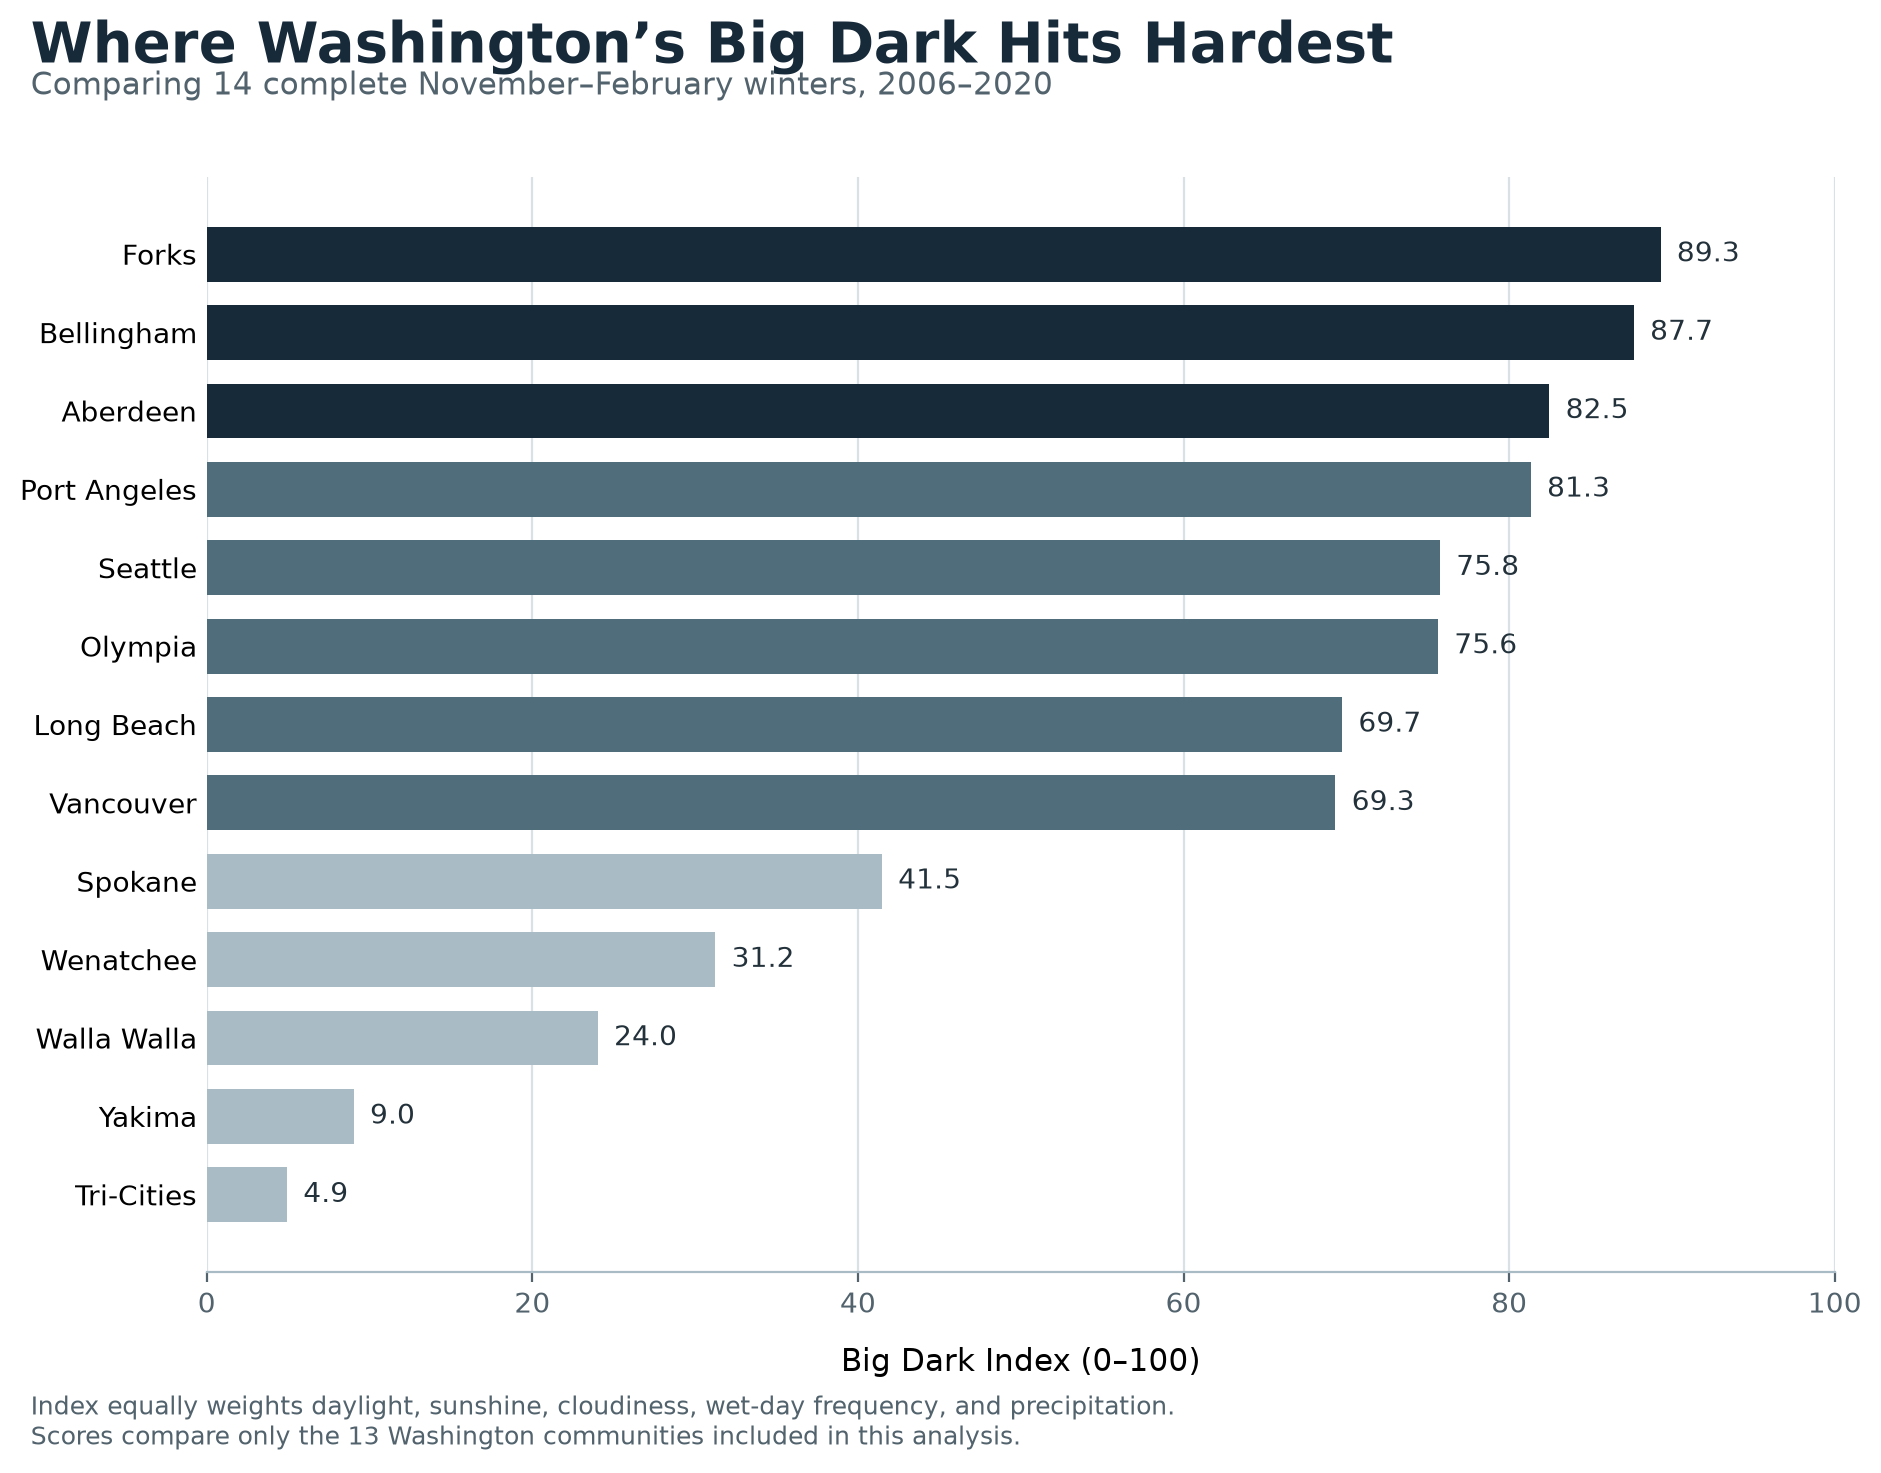
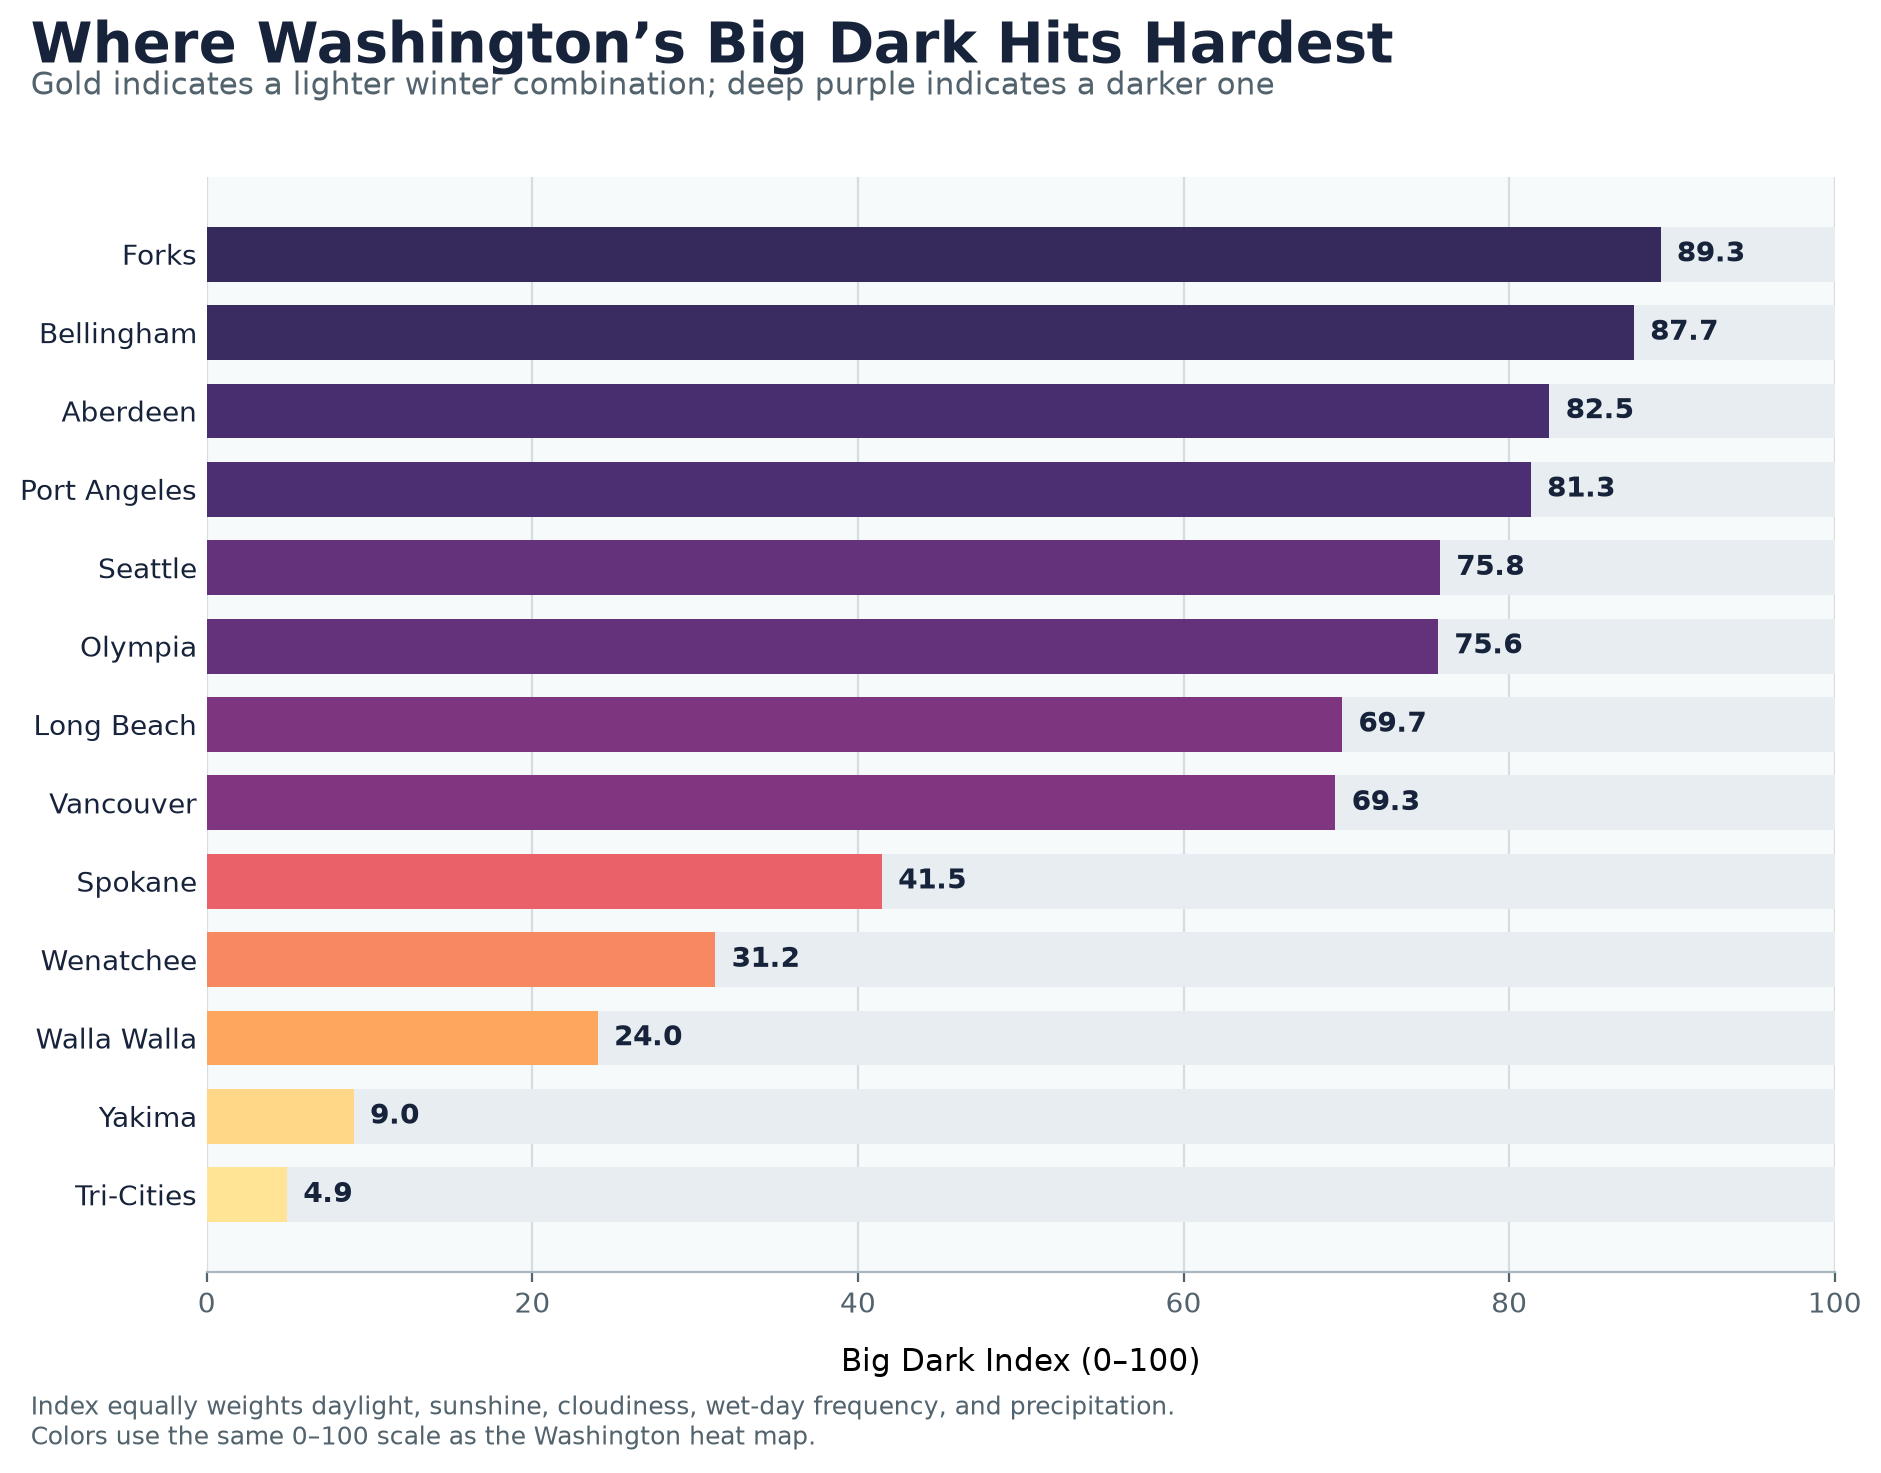
Add coordinated heat map and ranking visuals

diff --git a/scripts/create_map.py b/scripts/create_map.py
@@ -1,0 +1,250 @@
+"""Create an interpolated Washington heat map of Big Dark Index scores."""
+
+import json
+from pathlib import Path
+from urllib.parse import urlencode
+from urllib.request import urlopen
+
+import matplotlib.pyplot as plt
+from matplotlib.colors import LinearSegmentedColormap
+from matplotlib.path import Path as PlotPath
+import numpy as np
+import pandas as pd
+
+
+PROJECT_ROOT = Path(__file__).resolve().parents[1]
+SUMMARY_FILE = PROJECT_ROOT / "data" / "processed" / "big_dark_summary.csv"
+IMAGE_DIRECTORY = PROJECT_ROOT / "images"
+OUTPUT_FILE = IMAGE_DIRECTORY / "big_dark_map.png"
+
+CENSUS_QUERY_URL = (
+    "https://tigerweb.geo.census.gov/arcgis/rest/services/"
+    "Generalized_ACS2024/State_County/MapServer/8/query"
+)
+
+LABEL_OFFSETS = {
+    "Forks": (10, 10),
+    "Aberdeen": (10, -14),
+    "Long Beach": (10, -17),
+    "Port Angeles": (10, 16),
+    "Bellingham": (10, 9),
+    "Seattle": (10, 10),
+    "Olympia": (10, -15),
+    "Vancouver": (10, -17),
+    "Spokane": (-10, 9),
+    "Wenatchee": (10, 9),
+    "Yakima": (10, -13),
+    "Tri-Cities": (-10, -17),
+    "Walla Walla": (10, 15),
+}
+
+
+def download_washington_boundary():
+    """Return Washington's generalized Census boundary as GeoJSON."""
+    parameters = {
+        "where": "BASENAME='Washington'",
+        "outFields": "BASENAME",
+        "returnGeometry": "true",
+        "outSR": "4326",
+        "f": "geojson",
+    }
+    request_url = "{}?{}".format(CENSUS_QUERY_URL, urlencode(parameters))
+
+    with urlopen(request_url, timeout=90) as response:
+        boundary = json.loads(response.read().decode("utf-8"))
+
+    if not boundary.get("features"):
+        raise RuntimeError("The Census API did not return Washington's boundary.")
+
+    return boundary["features"][0]["geometry"]
+
+
+def polygon_rings(geometry):
+    """Yield the exterior ring of every polygon in a GeoJSON geometry."""
+    if geometry["type"] == "Polygon":
+        polygons = [geometry["coordinates"]]
+    elif geometry["type"] == "MultiPolygon":
+        polygons = geometry["coordinates"]
+    else:
+        raise ValueError("Expected a Polygon or MultiPolygon geometry.")
+
+    for polygon in polygons:
+        yield polygon[0]
+
+
+def inverse_distance_surface(summary, grid_longitude, grid_latitude):
+    """Interpolate community scores using inverse-distance weighting."""
+    sample_longitude = summary["longitude"].to_numpy()
+    sample_latitude = summary["latitude"].to_numpy()
+    sample_score = summary["big_dark_index"].to_numpy()
+
+    longitude_scale = np.cos(np.deg2rad(summary["latitude"].mean()))
+    delta_longitude = (
+        grid_longitude[..., np.newaxis] - sample_longitude
+    ) * longitude_scale
+    delta_latitude = grid_latitude[..., np.newaxis] - sample_latitude
+    distance = np.sqrt(delta_longitude ** 2 + delta_latitude ** 2)
+    distance = np.maximum(distance, 0.03)
+
+    weights = 1 / distance ** 2.4
+    return np.sum(weights * sample_score, axis=2) / np.sum(weights, axis=2)
+
+
+def washington_mask(geometry, grid_longitude, grid_latitude):
+    """Return a Boolean grid identifying points inside Washington."""
+    grid_points = np.column_stack(
+        [grid_longitude.ravel(), grid_latitude.ravel()]
+    )
+    inside = np.zeros(len(grid_points), dtype=bool)
+
+    for ring in polygon_rings(geometry):
+        inside |= PlotPath(np.asarray(ring)).contains_points(grid_points)
+
+    return inside.reshape(grid_longitude.shape)
+
+
+def main():
+    """Render and save an interpolated heat map with sample locations."""
+    summary = pd.read_csv(SUMMARY_FILE)
+    boundary = download_washington_boundary()
+
+    longitude_values = np.linspace(-124.9, -116.7, 500)
+    latitude_values = np.linspace(45.35, 49.15, 320)
+    grid_longitude, grid_latitude = np.meshgrid(
+        longitude_values, latitude_values
+    )
+    surface = inverse_distance_surface(
+        summary, grid_longitude, grid_latitude
+    )
+    inside_washington = washington_mask(
+        boundary, grid_longitude, grid_latitude
+    )
+    surface = np.ma.masked_where(~inside_washington, surface)
+
+    color_scale = LinearSegmentedColormap.from_list(
+        "big_dark_heat",
+        ["#FFF2A8", "#FFB65C", "#F06467", "#A83A87", "#503078", "#17233A"],
+    )
+
+    fig, axis = plt.subplots(figsize=(12, 8))
+    fig.patch.set_facecolor("white")
+    axis.set_facecolor("#E8F1F4")
+
+    levels = np.linspace(0, 100, 26)
+    heat = axis.contourf(
+        grid_longitude,
+        grid_latitude,
+        surface,
+        levels=levels,
+        cmap=color_scale,
+        vmin=0,
+        vmax=100,
+        antialiased=True,
+        zorder=1,
+    )
+
+    for ring in polygon_rings(boundary):
+        longitudes = [coordinate[0] for coordinate in ring]
+        latitudes = [coordinate[1] for coordinate in ring]
+        axis.plot(
+            longitudes,
+            latitudes,
+            color="#364A5A",
+            linewidth=1.15,
+            zorder=3,
+        )
+
+    axis.scatter(
+        summary["longitude"],
+        summary["latitude"],
+        marker="D",
+        s=44,
+        facecolor="white",
+        edgecolor="#17233A",
+        linewidth=1.2,
+        zorder=4,
+    )
+
+    for row in summary.itertuples(index=False):
+        offset = LABEL_OFFSETS.get(row.community, (8, 8))
+        horizontal_alignment = "right" if offset[0] < 0 else "left"
+        axis.annotate(
+            "{}  {:.0f}".format(row.community, row.big_dark_index),
+            xy=(row.longitude, row.latitude),
+            xytext=offset,
+            textcoords="offset points",
+            ha=horizontal_alignment,
+            va="center",
+            fontsize=9.2,
+            fontweight="semibold",
+            color="#17233A",
+            bbox={
+                "boxstyle": "round,pad=0.18",
+                "facecolor": "white",
+                "edgecolor": "none",
+                "alpha": 0.82,
+            },
+            arrowprops={
+                "arrowstyle": "-",
+                "color": "#506576",
+                "linewidth": 0.75,
+            },
+            zorder=5,
+        )
+
+    colorbar = fig.colorbar(
+        heat,
+        ax=axis,
+        orientation="horizontal",
+        shrink=0.48,
+        pad=0.04,
+        ticks=[0, 20, 40, 60, 80, 100],
+    )
+    colorbar.set_label("Big Dark Index (0–100)", fontsize=10)
+    colorbar.outline.set_visible(False)
+
+    axis.set_xlim(-124.9, -116.7)
+    axis.set_ylim(45.35, 49.15)
+    axis.set_aspect(1.47)
+    axis.set_xticks([])
+    axis.set_yticks([])
+    for spine in axis.spines.values():
+        spine.set_visible(False)
+
+    fig.suptitle(
+        "Washington’s Big Dark Has a West Side",
+        x=0.08,
+        y=0.97,
+        ha="left",
+        fontsize=21,
+        fontweight="bold",
+        color="#17233A",
+    )
+    fig.text(
+        0.08,
+        0.92,
+        "An interpolated view of Big Dark Index scores from 13 sampled communities",
+        ha="left",
+        fontsize=11,
+        color="#52636D",
+    )
+    fig.text(
+        0.08,
+        0.02,
+        "Shading uses inverse-distance interpolation for visual context; it is not a statewide weather measurement.\n"
+        "Diamond markers show sampled communities. Boundary source: U.S. Census Bureau TIGERweb.",
+        ha="left",
+        fontsize=9,
+        color="#52636D",
+    )
+
+    fig.subplots_adjust(left=0.06, right=0.96, top=0.88, bottom=0.12)
+    IMAGE_DIRECTORY.mkdir(parents=True, exist_ok=True)
+    fig.savefig(OUTPUT_FILE, dpi=200, bbox_inches="tight", facecolor="white")
+    plt.close(fig)
+
+    print("Saved map to {}".format(OUTPUT_FILE))
+
+
+if __name__ == "__main__":
+    main()

diff --git a/scripts/create_chart.py b/scripts/create_chart.py
@@ -3,6 +3,7 @@
 from pathlib import Path
 
 import matplotlib.pyplot as plt
+from matplotlib.colors import LinearSegmentedColormap, Normalize
 import pandas as pd
 
 
@@ -18,27 +19,38 @@ def main():
         "big_dark_index", ascending=True
     )
 
-    colors = []
-    for rank in summary["rank"]:
-        if rank <= 3:
-            colors.append("#172A3A")
-        elif rank <= 8:
-            colors.append("#4F6D7A")
-        else:
-            colors.append("#A9BBC5")
+    color_scale = LinearSegmentedColormap.from_list(
+        "big_dark_heat",
+        ["#FFF2A8", "#FFB65C", "#F06467", "#A83A87", "#503078", "#17233A"],
+    )
+    normalization = Normalize(vmin=0, vmax=100)
+    colors = [
+        color_scale(normalization(value))
+        for value in summary["big_dark_index"]
+    ]
 
     fig, axis = plt.subplots(figsize=(11, 7.5))
+    fig.patch.set_facecolor("white")
+    axis.set_facecolor("#F7FAFB")
+    axis.barh(
+        summary["community"],
+        [100] * len(summary),
+        color="#E7EDF0",
+        height=0.7,
+        zorder=1,
+    )
     bars = axis.barh(
         summary["community"],
         summary["big_dark_index"],
         color=colors,
         height=0.7,
+        zorder=3,
     )
 
     axis.set_xlim(0, 100)
     axis.set_xlabel("Big Dark Index (0–100)", fontsize=11, labelpad=10)
     axis.set_ylabel("")
-    axis.xaxis.grid(True, color="#D9E1E5", linewidth=0.8)
+    axis.xaxis.grid(True, color="#D3DDE2", linewidth=0.8)
     axis.yaxis.grid(False)
     axis.set_axisbelow(True)
 
@@ -49,13 +61,15 @@ def main():
             "{:.1f}".format(value),
             va="center",
             fontsize=10,
-            color="#23313B",
+            fontweight="semibold",
+            color="#17233A",
+            zorder=4,
         )
 
     for edge in ["top", "right", "left"]:
         axis.spines[edge].set_visible(False)
-    axis.spines["bottom"].set_color("#A9BBC5")
-    axis.tick_params(axis="y", length=0, labelsize=10)
+    axis.spines["bottom"].set_color("#A9B8C0")
+    axis.tick_params(axis="y", length=0, labelsize=10, colors="#17233A")
     axis.tick_params(axis="x", colors="#52636D")
 
     fig.suptitle(
@@ -65,12 +79,12 @@ def main():
         ha="left",
         fontsize=20,
         fontweight="bold",
-        color="#172A3A",
+        color="#17233A",
     )
     fig.text(
         0.12,
         0.925,
-        "Comparing 14 complete November–February winters, 2006–2020",
+        "Gold indicates a lighter winter combination; deep purple indicates a darker one",
         ha="left",
         fontsize=11,
         color="#52636D",
@@ -79,7 +93,7 @@ def main():
         0.12,
         0.025,
         "Index equally weights daylight, sunshine, cloudiness, wet-day frequency, and precipitation.\n"
-        "Scores compare only the 13 Washington communities included in this analysis.",
+        "Colors use the same 0–100 scale as the Washington heat map.",
         ha="left",
         fontsize=9,
         color="#52636D",

diff --git a/README.md b/README.md
@@ -19,6 +19,13 @@ the combination is most severe.
 - Bellingham and Port Angeles rank higher than rainfall alone would suggest
   because the index also accounts for their shorter northern daylight.
 
+## Geographic pattern
+
+![Washington Big Dark Index map](images/big_dark_map.png)
+
+The point map makes the west-to-east divide visible without implying that the 13
+sampled locations represent every community or county in Washington.
+
 ## Method
 
 The analysis covers 14 complete November-through-February winters from 2006 to
@@ -41,10 +48,12 @@ climate classifications.
 Historical weather data come from the
 [Open-Meteo Historical Weather API](https://open-meteo.com/en/docs/historical-weather-api)
 using the ERA5 reanalysis model.
+The map outline comes from the
+[U.S. Census Bureau TIGERweb service](https://tigerweb.geo.census.gov/arcgis/rest/services/Generalized_ACS2024/State_County/MapServer).
 
 - Python and pandas for data collection, cleaning, streak calculations, and scoring
 - SQLite and SQL for winter-level aggregation
-- Matplotlib for the ranking visualization
+- Matplotlib for the ranking and geographic visualizations
 - Git and GitHub for version control and reproducibility
 
 ## Repository structure
@@ -57,10 +66,12 @@ data/
   raw/                          Recreated locally and excluded from version control
 images/
   big_dark_ranking.png          Primary result visualization
+  big_dark_map.png              Geographic score comparison
 scripts/
   download_weather.py           Reproducible API download
   analyze_big_dark.py           SQL aggregation and index calculation
   create_chart.py               Ranking chart generation
+  create_map.py                 Washington point-map generation
 sql/
   winter_summary.sql            SQL used to summarize winter conditions
 requirements.txt                Required Python packages
@@ -73,6 +84,7 @@ pip install -r requirements.txt
 python scripts/download_weather.py
 python scripts/analyze_big_dark.py
 python scripts/create_chart.py
+python scripts/create_map.py
 ```
 
 ## Limitations
